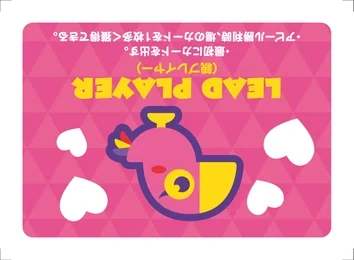
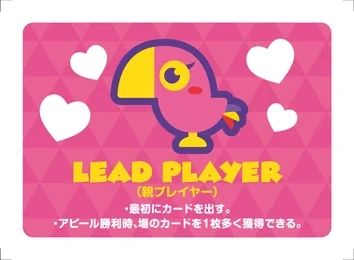
TRICO!の1コマ目:リードマーカーの向きを直す
Claude-Session: https://claude.ai/code/session_01KGkDFCMk81Yp3xPHsDn5z8

diff --git a/new/games/trico/index.html b/new/games/trico/index.html
@@ -834,7 +834,7 @@
         <ol class="steps" tabindex="0" aria-label="遊び方の流れ(横にスクロール)">
           <li class="step s1">
             <div class="step-head"><span class="snum" aria-label="ステップ1"><b>1</b></span><p class="step-lead"><span><span lang="ja">リードプレイヤーが1枚を表向きに出したら、他の2人は裏向きに出して<em>同時に公開!</em></span><span lang="en">The lead player plays a card face up; the other two play face down and <em>reveal at the same time!</em></span></span></p></div>
-            <div class="viz"><div class="tpl"><figure class="t1a"><span class="tlab">P1</span><span class="lf" style="--i:0"><img class="c back" src="../../img/parts/tc_ura.webp?v=1c6ad391" alt=""><img class="c front" src="../../img/parts/tc_p3.webp?v=761eae70" alt="紫の3"></span></figure><figure class="t1b"><span class="tlab">P2</span><span class="lf" style="--i:1"><img class="c back" src="../../img/parts/tc_ura.webp?v=1c6ad391" alt=""><img class="c front" src="../../img/parts/tc_r27.webp?v=2cf7026f" alt="赤の27"></span></figure><figure class="lead-col"><span class="tlab">P3</span><span class="tlead"><img class="tcd " style="--i:0" src="../../img/parts/tc_p24.webp?v=3dfd348e" alt="紫の24"><img class="lead" src="../../img/parts/tc_lead_h.webp?v=560d5862" alt="リードプレイヤーマーカー"></span></figure><span class="tsay"><span lang="ja">せーの!</span><span lang="en">Reveal!</span></span></div></div>
+            <div class="viz"><div class="tpl"><figure class="t1a"><span class="tlab">P1</span><span class="lf" style="--i:0"><img class="c back" src="../../img/parts/tc_ura.webp?v=1c6ad391" alt=""><img class="c front" src="../../img/parts/tc_p3.webp?v=761eae70" alt="紫の3"></span></figure><figure class="t1b"><span class="tlab">P2</span><span class="lf" style="--i:1"><img class="c back" src="../../img/parts/tc_ura.webp?v=1c6ad391" alt=""><img class="c front" src="../../img/parts/tc_r27.webp?v=2cf7026f" alt="赤の27"></span></figure><figure class="lead-col"><span class="tlab">P3</span><span class="tlead"><img class="tcd " style="--i:0" src="../../img/parts/tc_p24.webp?v=3dfd348e" alt="紫の24"><img class="lead" src="../../img/parts/tc_lead_h.webp?v=f03780f8" alt="リードプレイヤーマーカー"></span></figure><span class="tsay"><span lang="ja">せーの!</span><span lang="en">Reveal!</span></span></div></div>
           </li>
           <li class="step s2">
             <div class="step-head"><span class="snum" aria-label="ステップ2"><b>2</b></span><p class="step-lead"><span><span lang="ja">場に揃った<em>色の数</em>で勝敗を決める!</span><span lang="en">The <em>number of colors</em> on the table decides the winner!</span></span></p></div>
